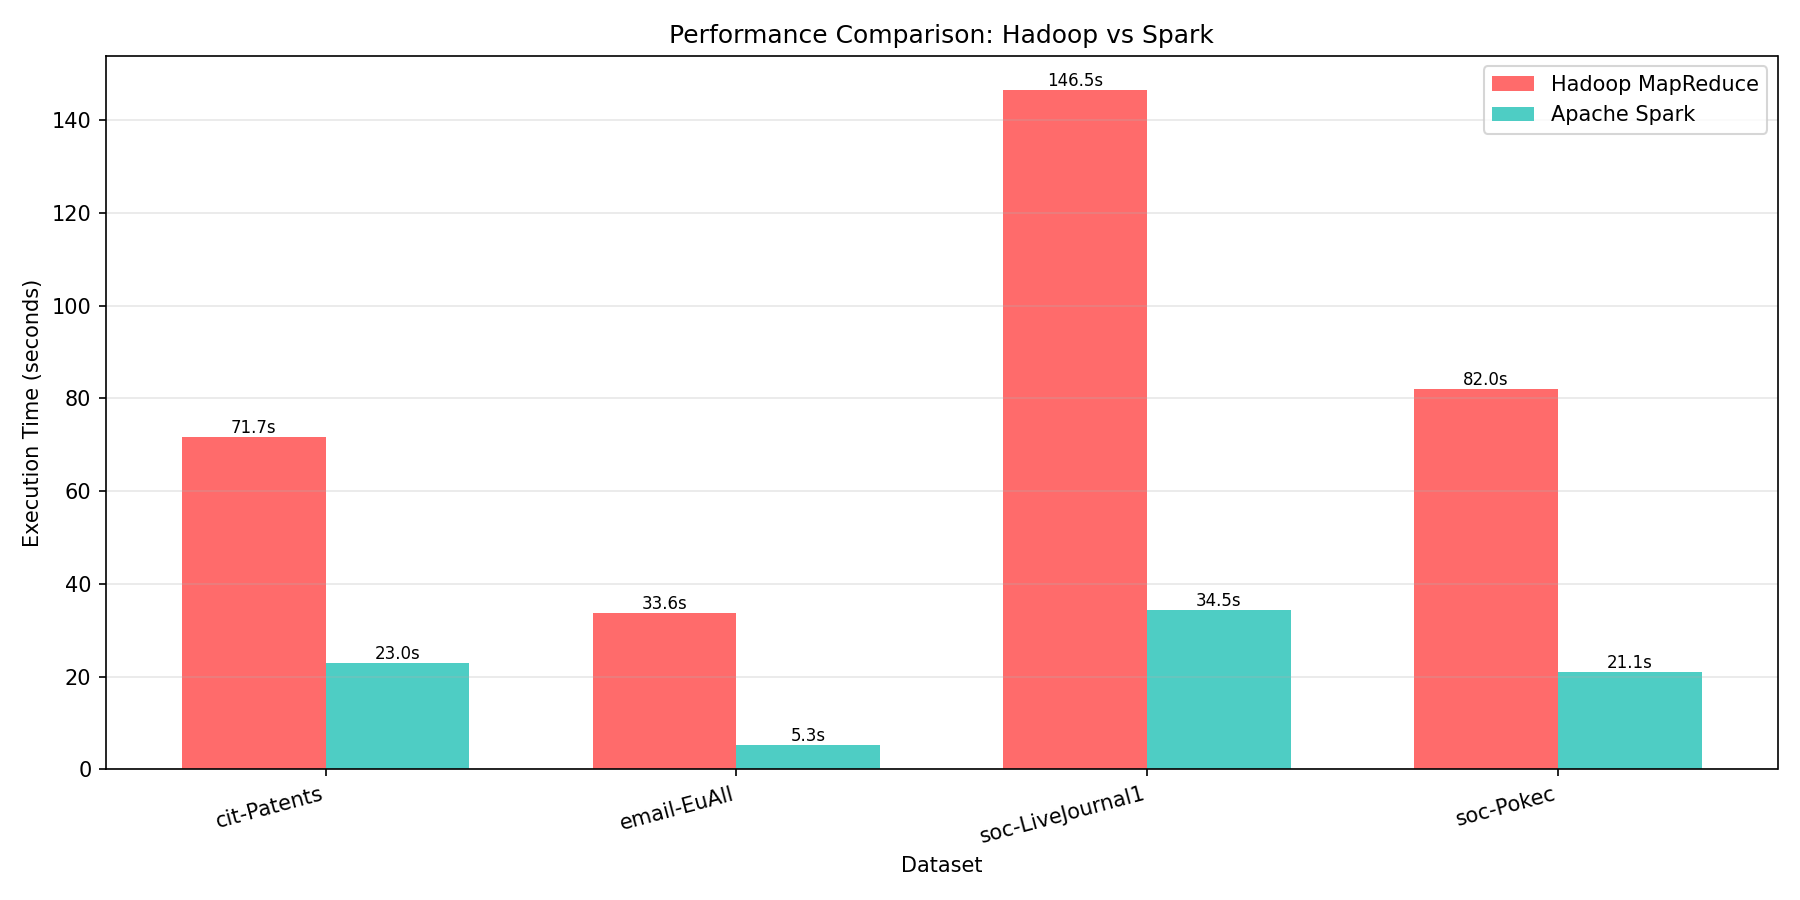
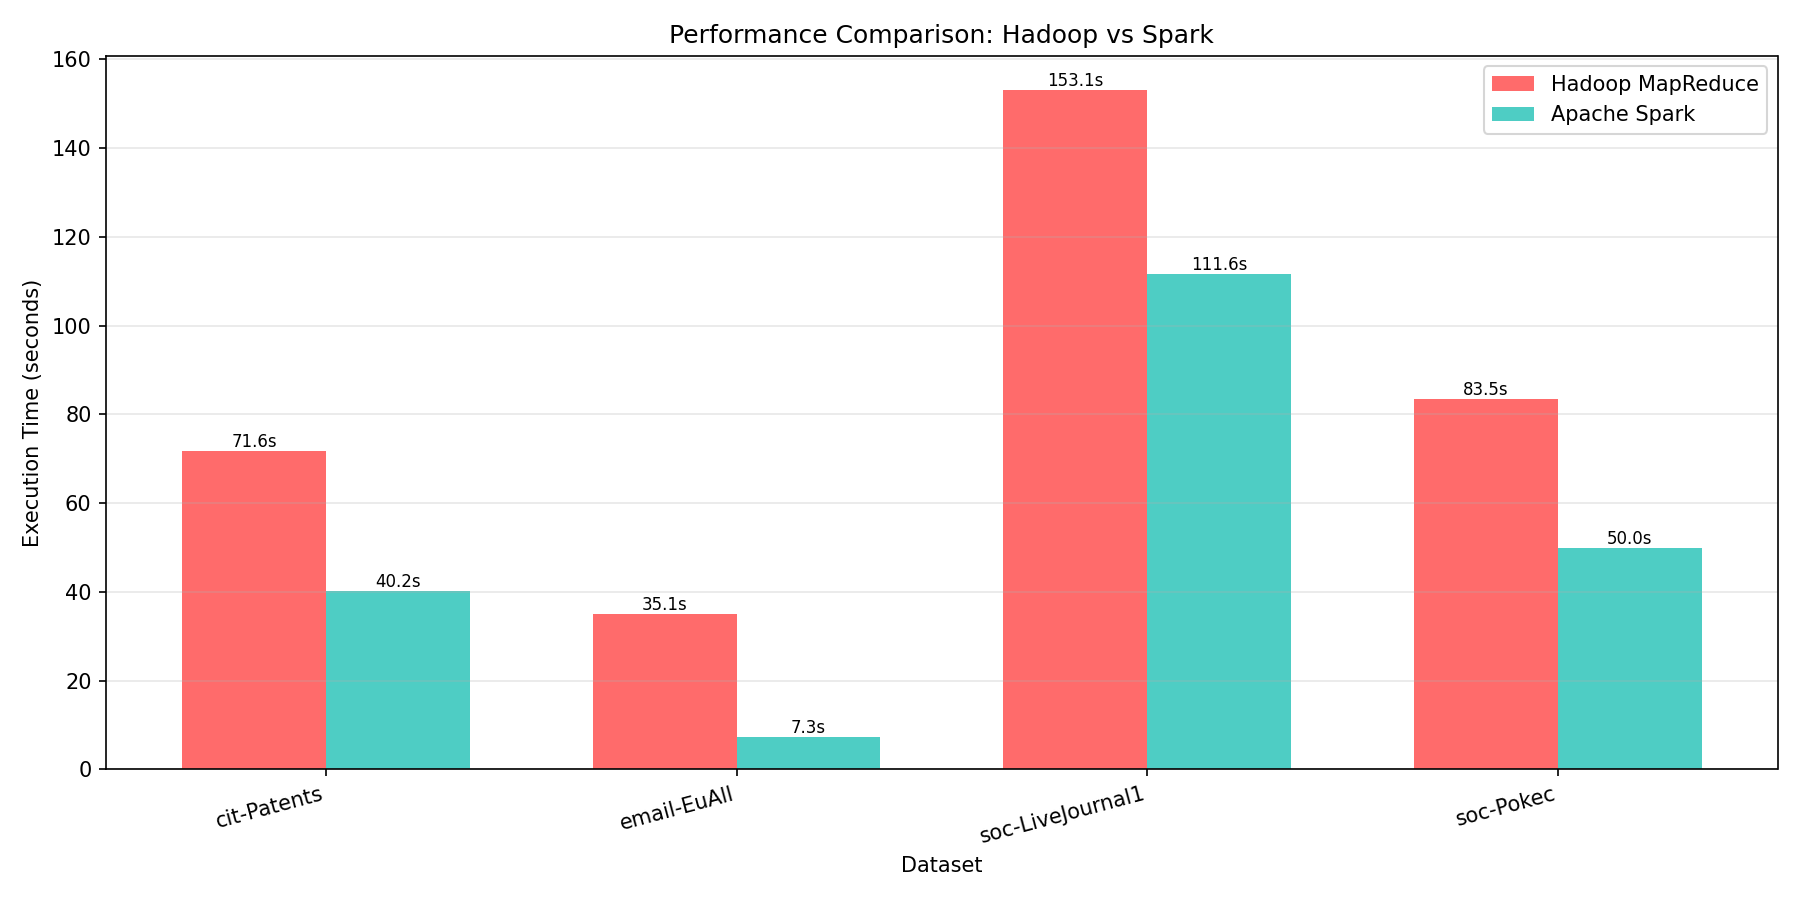
update results

diff --git a/task1/scripts/indegree_analysis/visualize_results.py b/task1/scripts/indegree_analysis/visualize_results.py
@@ -196,6 +196,51 @@ class ResultVisualizer:
         
         print(f"✓ Saved performance comparison: {output_file}")
     
+    def generate_distribution_plots(self):
+        """Generate in-degree distribution plots from results JSON"""
+        experiments = self.results.get('experiments', [])
+        if not experiments:
+            print("Warning: No experiments found in results JSON")
+            return
+        
+        for exp in experiments:
+            if not exp.get('success', False):
+                continue
+            dataset = exp.get('dataset', 'unknown')
+            framework = exp.get('framework', 'unknown')
+            dist_map = exp.get('degree_distribution', {})
+            if not isinstance(dist_map, dict) or not dist_map:
+                # Skip if no distribution embedded in results
+                continue
+            
+            # Convert mapping {degree: count} to sorted list of tuples
+            try:
+                distribution = sorted(
+                    [(int(k), int(v)) for k, v in dist_map.items()],
+                    key=lambda x: x[0]
+                )
+            except Exception:
+                # If keys are not numeric strings, attempt alternative parsing or skip
+                continue
+            
+            # Build safe filenames
+            safe_dataset = dataset.replace('/', '-').replace(' ', '-')
+            safe_framework = framework.replace(' ', '-')
+            base_name = f"{safe_dataset}__{safe_framework}"
+            
+            scatter_path = os.path.join(
+                self.output_dir,
+                f"indegree_scatter__{base_name}.png"
+            )
+            loglog_path = os.path.join(
+                self.output_dir,
+                f"indegree_loglog__{base_name}.png"
+            )
+            
+            title = f"In-Degree Distribution: {dataset} ({framework})"
+            self.plot_distribution(distribution, title, scatter_path)
+            self.plot_loglog_distribution(distribution, title, loglog_path)
+    
     def generate_report(self):
         """Generate comprehensive analysis report"""
         report_file = os.path.join(self.output_dir, 'ANALYSIS_REPORT.md')
@@ -304,8 +349,8 @@ class ResultVisualizer:
         # Create performance comparison
         self.plot_performance_comparison()
         
-        # Note: Distribution plots would require parsing actual output files
-        # which may not exist in this test environment
+        # Generate in-degree distribution plots from embedded results
+        self.generate_distribution_plots()
         
         # Generate report
         self.generate_report()

diff --git a/task4/scripts/social-producer.py b/task4/scripts/social-producer.py
@@ -34,7 +34,7 @@ def main():
     twitter_topic = os.getenv('TWITTER_TOPIC', 'twitter_posts')
     tiktok_topic = os.getenv('TIKTOK_TOPIC', 'tiktok_posts')
     twitter_csv = os.getenv('TWITTER_CSV', '../data/processed/twitter-dataset.csv')
-    tiktok_csv = os.getenv('TIKTOK_CSV', '../data/processed/processed/tiktok-dataset.csv')
+    tiktok_csv = os.getenv('TIKTOK_CSV', '../data/processed/tiktok-dataset.csv')
     interval_ms = int(os.getenv('SEND_INTERVAL_MS', '200'))
     sleep_sec = interval_ms / 1000.0
 

diff --git a/task1/scripts/indegree_analysis/run_experiments.py b/task1/scripts/indegree_analysis/run_experiments.py
@@ -286,7 +286,7 @@ class ExperimentRunner:
             # Run Spark job
             cmd = [
                 'spark-submit',
-                '--master', 'local[*]',
+                '--master', 'spark://spark-master:7077',
                 '/scripts/indegree_analysis/spark_indegree.py',
                 input_path,
                 '--output', output_path

diff --git a/task1/scripts/indegree_analysis/plots/ANALYSIS_REPORT.md b/task1/scripts/indegree_analysis/plots/ANALYSIS_REPORT.md
@@ -1,6 +1,6 @@
 # In-Degree Distribution Analysis Report
 
-**Generated:** 2025-11-30T15:35:13.945255
+**Generated:** 2025-12-06T07:31:58.723099
 
 ## Experiment Results
 
@@ -8,10 +8,10 @@
 
 | Dataset | Hadoop MapReduce | Apache Spark | Speedup |
 |---------|------------------|--------------|----------|
-| cit-Patents | 71.68s | 23.02s | 3.11x |
-| email-EuAll | 33.63s | 5.30s | 6.34x |
-| soc-LiveJournal1 | 146.54s | 34.46s | 4.25x |
-| soc-Pokec | 81.99s | 21.09s | 3.89x |
+| cit-Patents | 71.64s | 40.16s | 1.78x |
+| email-EuAll | 35.08s | 7.34s | 4.78x |
+| soc-LiveJournal1 | 153.09s | 111.63s | 1.37x |
+| soc-Pokec | 83.55s | 49.98s | 1.67x |
 
 ### Statistics
 

diff --git a/task4/README.md b/task4/README.md
@@ -14,8 +14,9 @@ pip install -r requirements.txt
 
 ## Quick Start
 ```bash
-make up
 make prepare
+make up
+make java-build
 make flink-submit-tiktok
 make flink-submit-twitter
 ```
